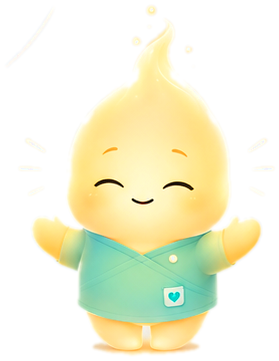
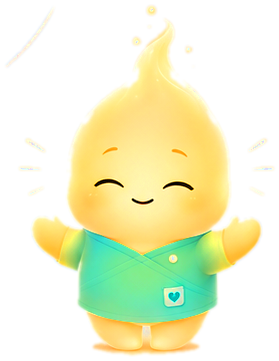
feat: cores bem mais fortes nos sprites (sat 2.3x, contraste maior) + contorno reforcado

diff --git a/src/renderer/lumi/lumi.css b/src/renderer/lumi/lumi.css
@@ -25,8 +25,8 @@ html, body {
   width: auto;
   pointer-events: auto;
   /* Contorno de luz + sombra: destaca o Lumi em qualquer fundo */
-  filter: drop-shadow(0 0 3px rgba(160, 105, 15, 0.4))
-    drop-shadow(0 3px 6px rgba(90, 60, 0, 0.35));
+  filter: drop-shadow(0 0 3px rgba(150, 95, 10, 0.55))
+    drop-shadow(0 3px 7px rgba(80, 55, 0, 0.4));
   transition: transform 0.2s ease-in-out, filter 0.2s ease-in-out;
 }
 
